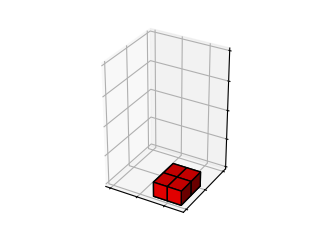
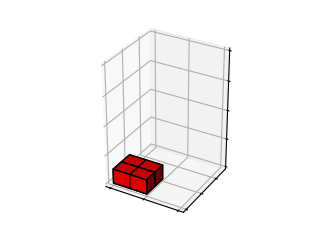
can play any piece now

diff --git a/static/script.js b/static/script.js
@@ -42,24 +42,22 @@
 
 // Iterate through Rumis turns
 document.getElementById("nextTurn").addEventListener("click", nextTurn);
-document.getElementById("next_turn_2x1").addEventListener("click", nextTurn_2x1);
-
 function nextTurn() {
 
     var image = document.getElementById("gameBoard");
     image.src = 'static/loading.gif'
 
-    var piece = document.getElementById('piece').value;
-    var x = document.getElementById('x').value;
-    var y = document.getElementById('y').value;
-    var z = document.getElementById('z').value;
+//    var piece = document.getElementById('piece').value;
+//    var x = document.getElementById('x').value;
+//    var y = document.getElementById('y').value;
+//    var z = document.getElementById('z').value;
 
     fetch('/nextturn', {
         method: 'POST',
         headers: {
             'Content-Type': 'application/json',
         },
-        body: JSON.stringify({ 'piece': piece, 'x': x, 'y': y, 'z': z })
+        body: JSON.stringify({ 'piece': 'placeholder' })
         }
     )
     .then((response) => {
@@ -79,19 +77,32 @@ function nextTurn() {
 
 }
 
-function nextTurn_2x1() {
+// Play human's turn
+const pieces = ['4x1', '3x1', '2x1', 'L', 'square', 'corner', 'pipe', 'bend', 'archer', 'twistL', 'twistR']
+for (const piece of pieces) {
+    document.getElementById(`next_turn_${piece}`).addEventListener("click", nextTurn_human);
+    document.getElementById(`next_turn_${piece}`).myParam = piece
+}
+
+//document.getElementById("next_turn_2x1").addEventListener("click", nextTurn_3x1);
+//document.getElementById("next_turn_2x1").myParam = '2x1'
+//
+//document.getElementById("next_turn_3x1").addEventListener("click", nextTurn_3x1);
+//document.getElementById("next_turn_3x1").myParam = '3x1'
+//
+//document.getElementById("next_turn_4x1").addEventListener("click", nextTurn_3x1);
+//document.getElementById("next_turn_4x1").myParam = '4x1'
+
+function nextTurn_human(evt) {
     var image = document.getElementById("gameBoard");
     image.src = 'static/loading.gif'
-    var piece = document.getElementById('piece').value;
-    var x = document.getElementById('x').value;
-    var y = document.getElementById('y').value;
-    var z = document.getElementById('z').value;
+    var piece = evt.currentTarget.myParam
     fetch('/nextturn', {
         method: 'POST',
         headers: {
             'Content-Type': 'application/json',
         },
-        body: JSON.stringify({ 'piece': '2x1', 'x': x, 'y': y, 'z': z })
+        body: JSON.stringify({ 'piece': piece })
         }
     )
     .then((response) => {
@@ -128,6 +139,7 @@ function rotate(){
         image.src = image.src.replace('_270', '_0')
     }
 }
+
 
 // Update visual of all playable pieces  # TODO: there has to be a better way to do this
 document.getElementById("move_right").addEventListener("click", moveRight);

diff --git a/templates/index.html b/templates/index.html
@@ -44,21 +44,21 @@
 
 <br><br>
 
-<form action="/", method="POST">
-<div class="menu">
-    <div>
-        <label for="piece">Piece:</label>
-        <input type="text" id="piece">
-        <label for="x">x:</label>
-        <input type="text" id="x">
-        <label for="y">y:</label>
-        <input type="text" id="y">
-        <label for="z">z:</label>
-        <input type="text" id="z">
-    </div>
-</div>
-    <br><button type="submit">Play Piece</button>
-</form>
+<!--<form action="/", method="POST">-->
+<!--<div class="menu">-->
+<!--    <div>-->
+<!--        <label for="piece">Piece:</label>-->
+<!--        <input type="text" id="piece">-->
+<!--        <label for="x">x:</label>-->
+<!--        <input type="text" id="x">-->
+<!--        <label for="y">y:</label>-->
+<!--        <input type="text" id="y">-->
+<!--        <label for="z">z:</label>-->
+<!--        <input type="text" id="z">-->
+<!--    </div>-->
+<!--</div>-->
+<!--    <br><button type="submit">Play Piece</button>-->
+<!--</form>-->
 
 <br><br>
 
@@ -69,16 +69,39 @@
 <button type="submit" id="move_up">Move Up</button>
 <button type="submit" id="move_down">Move Down</button>
 
+<br><br>
+
+<button type="submit" id="next_turn_2x1">Play Piece</button>
 <img id='2x1' src={{ url_for('static', filename='2x1.png') }}>
+
+<button type="submit" id="next_turn_3x1">Play Piece</button>
 <img id='3x1' src={{ url_for('static', filename='3x1.png') }}>
+
+<button type="submit" id="next_turn_4x1">Play Piece</button>
 <img id='4x1' src={{ url_for('static', filename='4x1.png') }}>
+
+<button type="submit" id="next_turn_archer">Play Piece</button>
 <img id='archer' src={{ url_for('static', filename='archer.png') }}>
+
+<button type="submit" id="next_turn_bend">Play Piece</button>
 <img id='bend' src={{ url_for('static', filename='bend.png') }}>
+
+<button type="submit" id="next_turn_corner">Play Piece</button>
 <img id='corner' src={{ url_for('static', filename='corner.png') }}>
+
+<button type="submit" id="next_turn_L">Play Piece</button>
 <img id='L' src={{ url_for('static', filename='L.png') }}>
+
+<button type="submit" id="next_turn_pipe">Play Piece</button>
 <img id='pipe' src={{ url_for('static', filename='pipe.png') }}>
+
+<button type="submit" id="next_turn_square">Play Piece</button>
 <img id='square' src={{ url_for('static', filename='square.png') }}>
+
+<button type="submit" id="next_turn_twistL">Play Piece</button>
 <img id='twistL' src={{ url_for('static', filename='twistL.png') }}>
+
+<button type="submit" id="next_turn_twistR">Play Piece</button>
 <img id='twistR' src={{ url_for('static', filename='twistR.png') }}>
 
 

diff --git a/app.py b/app.py
@@ -10,6 +10,7 @@ app.secret_key = '234897f134951'  # Required to use session
 
 @app.route('/', methods=['GET', 'POST'])
 def hello():
+    session.clear()
     session['turn'] = 0
     if request.method == "POST":
         board_name = request.form.get("none_n")
@@ -43,7 +44,7 @@ def nextTurn():
         players, grid, ax, ax_90, ax_180, ax_270 = play_turn(session['turn'], players, grid)
     else:
         # players, grid, ax, ax_90, ax_180, ax_270 = human_move(players, grid, int(data['piece']), int(data['x']), int(data['y']), int(data['z']))
-        players, grid, ax, ax_90, ax_180, ax_270 = human_move(players, grid, data['piece'], int(data['x']), int(data['y']), int(data['z']))
+        players, grid, ax, ax_90, ax_180, ax_270 = human_move(players, grid, data['piece'])
 
     # Reset profile places for each player
     for player in players.values():
@@ -62,6 +63,7 @@ def nextTurn():
 
 @app.route('/movePiece', methods=['POST'])
 def move_piece():
+    print('app.py move_piece()')
     data = request.get_json()
     players = jsonpickle.decode(session['players'])
     grid = jsonpickle.decode(session['grid'])
@@ -69,13 +71,13 @@ def move_piece():
     if move == 'right':
         for player in players.values():
             current_x, current_y, current_z = player.piece_profile_positions
-            player.piece_profile_positions = (current_x, current_y, current_z + 1)
-        players[str(2)].draw_pieces(grid, current_x, current_y, current_z + 1)  # TODO: hardcoded
+            player.piece_profile_positions = (current_x, current_y + 1, current_z)
+        players[str(2)].draw_pieces(grid, current_x, current_y + 1, current_z)  # TODO: hardcoded
     elif move == 'left':
         for player in players.values():
             current_x, current_y, current_z = player.piece_profile_positions
-            player.piece_profile_positions = (current_x, current_y, current_z - 1)
-        players[str(2)].draw_pieces(grid, current_x, current_y, current_z - 1)  # TODO: hardcoded
+            player.piece_profile_positions = (current_x, current_y - 1, current_z)
+        players[str(2)].draw_pieces(grid, current_x, current_y - 1, current_z)  # TODO: hardcoded
     elif move == 'away':
         for player in players.values():
             current_x, current_y, current_z = player.piece_profile_positions
@@ -89,13 +91,13 @@ def move_piece():
     elif move == 'up':
         for player in players.values():
             current_x, current_y, current_z = player.piece_profile_positions
-            player.piece_profile_positions = (current_x, current_y + 1, current_z)
-        players[str(2)].draw_pieces(grid, current_x, current_y + 1, current_z)  # TODO: hardcoded
+            player.piece_profile_positions = (current_x, current_y, current_z + 1)
+        players[str(2)].draw_pieces(grid, current_x, current_y, current_z + 1)  # TODO: hardcoded
     elif move == 'down':
         for player in players.values():
             current_x, current_y, current_z = player.piece_profile_positions
-            player.piece_profile_positions = (current_x, current_y - 1, current_z)
-        players[str(2)].draw_pieces(grid, current_x, current_y - 1, current_z)  # TODO: hardcoded
+            player.piece_profile_positions = (current_x, current_y, current_z - 1)
+        players[str(2)].draw_pieces(grid, current_x, current_y, current_z - 1)  # TODO: hardcoded
 
     session['players'] = jsonpickle.encode(players)
 

diff --git a/modules/functions.py b/modules/functions.py
@@ -39,7 +39,8 @@ class Competitor:
             empty_grid = board('chullpa')  # TODO: hardcoded
             layer = fill_out2(piece, empty_grid.grid, x, y, z)
             piece_grid = empty_grid.grid + layer
-            piece_grid = np.rot90(piece_grid, k=1, axes=(0, 2))
+            # piece_grid = np.rot90(piece_grid, k=1, axes=(0, 2))
+            piece_grid = np.rot90(np.rot90(piece_grid, k=1, axes=(0, 2)), k=3, axes=(0, 1))
 
             color = []
             for i, layer in enumerate(piece_grid):
@@ -318,7 +319,7 @@ def play_move(player, grid, start, turn_2):
             return grid, None
 
 
-def human_move(players, grid, piece_i, x, y, z):
+def human_move(players, grid, piece_i):
     player = players[str(2)]  # TODO: hardcoded
 
     piece_i = player.piece_names_list.index(piece_i)
